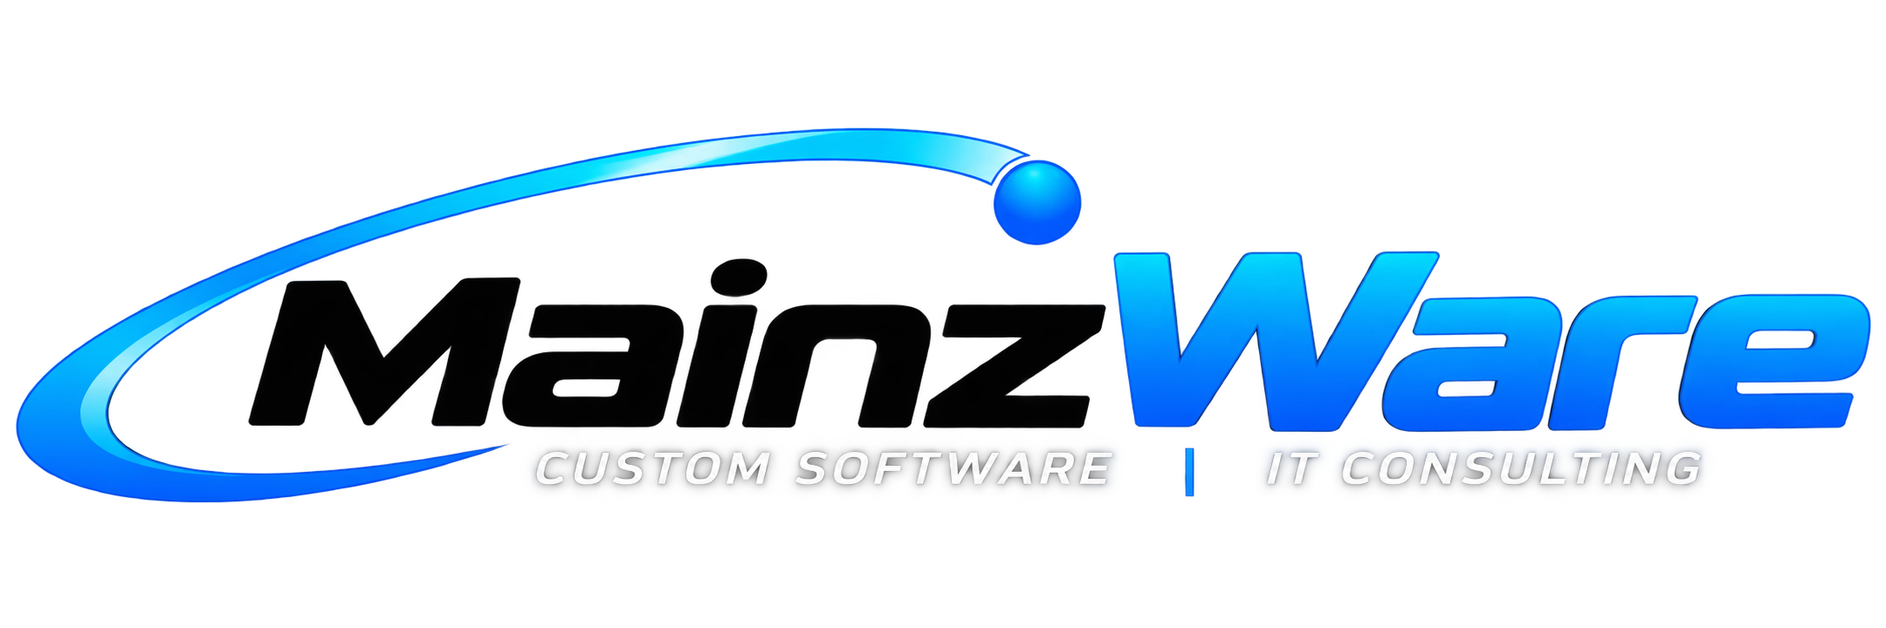
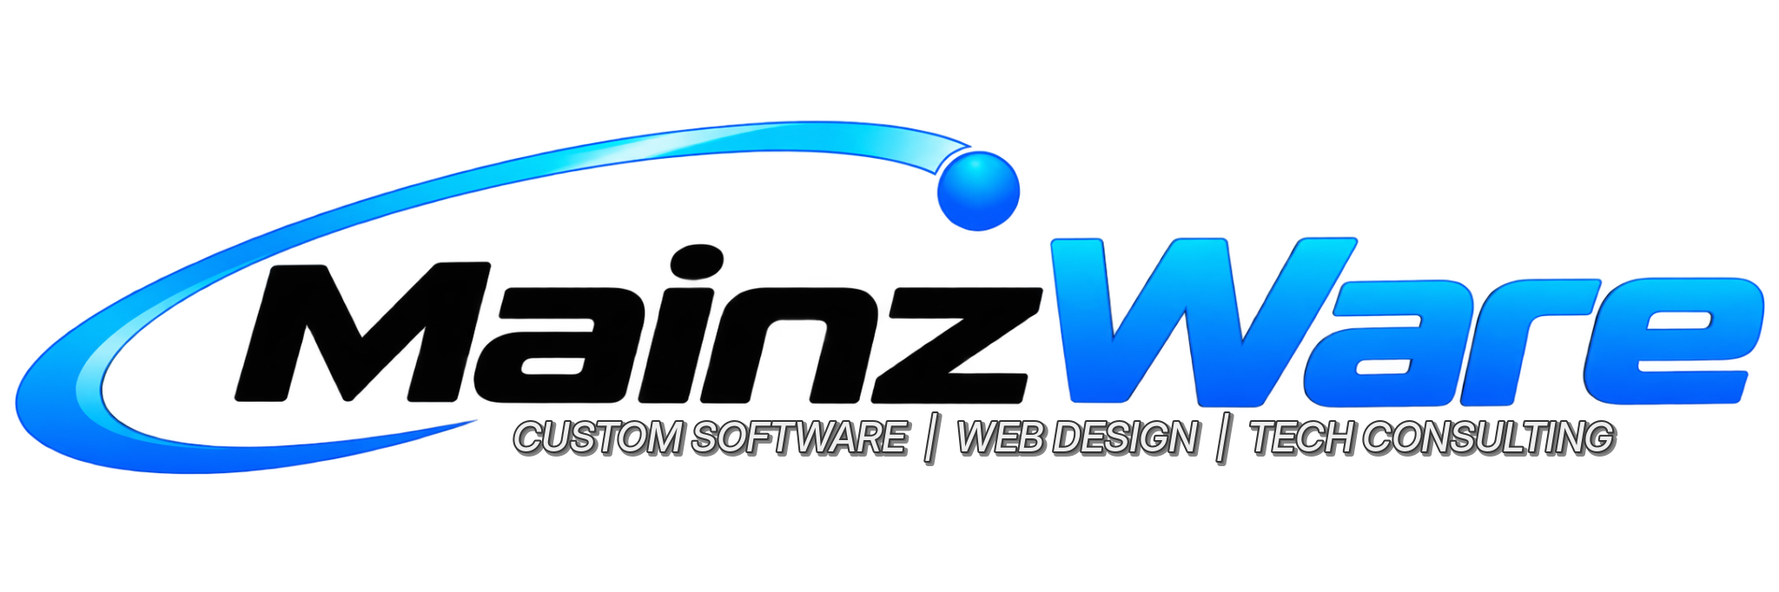
homepage edits

diff --git a/portal/frontend/src/pages/Home.css b/portal/frontend/src/pages/Home.css
@@ -1,17 +1,19 @@
-:root { --mw-navy: #07172d; --mw-blue: #087cf0; --mw-electric: #25a9ff; --mw-white: #f7fbff; --mw-pale: #eaf4fc; --mw-line: rgba(7, 23, 45, .16); }
+:root { --mw-navy: #07172d; --mw-blue: #087cf0; --mw-blue-ink: #0a5cae; --mw-electric: #25a9ff; --mw-white: #f7fbff; --mw-pale: #eaf4fc; --mw-line: rgba(7, 23, 45, .16); }
 .mainzware-site { background: var(--mw-white); color: var(--mw-navy); font-family: 'Trebuchet MS', 'Segoe UI', sans-serif; min-height: 100vh; overflow: hidden; }
 .mw-header { align-items: center; background: rgba(247,251,255,.94); border-bottom: 1px solid var(--mw-line); display: flex; justify-content: space-between; padding: 18px 5vw; position: relative; z-index: 2; }
 .mw-brand { display: block; line-height: 0; text-decoration: none; }.mw-brand img { height: 54px; object-fit: contain; width: 170px; }
 .mw-nav { align-items: center; display: flex; gap: clamp(18px, 3vw, 44px); }.mw-nav a { color: var(--mw-navy); font-size: .75rem; font-weight: 800; letter-spacing: .1em; text-decoration: none; text-transform: uppercase; }.mw-nav a:hover { color: var(--mw-blue); }
 .mw-nav__portal { align-items: center; background: var(--mw-blue); color: #fff !important; display: flex; gap: 7px; padding: 13px 17px; transition: background .2s ease, transform .2s ease; }.mw-nav__portal:hover { background: var(--mw-navy); transform: translateY(-2px); }.mw-nav__portal svg, .mw-button svg { font-size: 1rem; transform: rotate(45deg); }
 .mw-hero { background: linear-gradient(116deg, #f7fbff 0%, #edf7ff 56%, #ccecff 100%); display: grid; grid-template-columns: minmax(0, 1.02fr) minmax(390px, .98fr); min-height: 660px; padding: 80px 7vw 100px; position: relative; }.mw-hero::after { background: var(--mw-blue); bottom: -1px; clip-path: polygon(100% 0, 100% 100%, 0 100%); content: ''; height: 110px; opacity: .08; position: absolute; right: 0; width: 42%; }
-.mw-kicker { align-items: center; color: var(--mw-blue); display: flex; font-size: .72rem; font-weight: 900; gap: 8px; letter-spacing: .16em; margin: 0 0 24px; text-transform: uppercase; }.mw-kicker svg { font-size: 1rem; }
-.mw-hero h1, .mw-intro h2, .mw-section-heading h2, .mw-cta h2 { font-family: 'Arial Black', 'Trebuchet MS', sans-serif; font-size: clamp(3.4rem, 7vw, 6.6rem); font-weight: 900; letter-spacing: -.075em; line-height: .9; margin: 0; max-width: 760px; text-transform: uppercase; }.mw-hero h1 em, h2 em { color: var(--mw-blue); font-style: normal; }.mw-hero__lede { color: var(--mw-navy); font-size: clamp(1.2rem, 2vw, 1.6rem); font-weight: 800; line-height: 1.15; margin: 36px 0 15px; max-width: 490px; }.mw-hero__body { color: rgba(7,23,45,.7); font-size: .98rem; line-height: 1.65; margin: 0 0 30px; max-width: 480px; }
+.mw-kicker { align-items: center; color: var(--mw-blue-ink); display: flex; font-size: .72rem; font-weight: 900; gap: 8px; letter-spacing: .16em; margin: 0 0 24px; text-transform: uppercase; }.mw-kicker svg { font-size: 1rem; }
+.mw-hero h1, .mw-beyond h2, .mw-section-heading h2, .mw-cta h2, .mw-approach > h2, .mw-commitment > h2 { font-family: 'Arial Black', 'Trebuchet MS', sans-serif; font-size: clamp(3.4rem, 7vw, 6.6rem); font-weight: 900; letter-spacing: -.075em; line-height: .9; margin: 0; max-width: 760px; text-transform: uppercase; }.mw-hero h1 em, h2 em { color: var(--mw-blue); font-style: normal; }.mw-hero h1 { font-size: clamp(2.1rem, 3.6vw, 3.6rem); line-height: 1.15; max-width: 900px; }.mw-hero__subhead { border-top: 2px solid var(--mw-blue); color: rgba(7,23,45,.62); font-size: clamp(1rem, 1.4vw, 1.15rem); font-style: italic; font-weight: 700; line-height: 1.4; margin: 22px 0 0; max-width: 560px; padding-top: 14px; }.mw-hero__lede { color: var(--mw-navy); font-size: clamp(1.2rem, 2vw, 1.6rem); font-weight: 800; line-height: 1.15; margin: 30px 0 15px; max-width: 490px; }
 .mw-button { align-items: center; background: var(--mw-blue); box-shadow: 0 10px 20px rgba(8,124,240,.2); color: #fff; display: inline-flex; font-size: .76rem; font-weight: 900; gap: 15px; letter-spacing: .08em; padding: 17px 21px; text-decoration: none; text-transform: uppercase; transition: background .2s ease, transform .2s ease; }.mw-button:hover { background: var(--mw-navy); color: #fff; transform: translateY(-3px); }
-.mw-hero__visual { align-self: center; aspect-ratio: 1; background: linear-gradient(145deg, var(--mw-navy), #0b4f9d); box-shadow: 20px 28px 0 rgba(8,124,240,.13); justify-self: end; max-width: 535px; overflow: hidden; position: relative; transform: rotate(3deg); width: 100%; }.mw-hero__visual::before { border: 1px solid rgba(37,169,255,.5); content: ''; inset: 9%; position: absolute; }.mw-hero__shine { background: linear-gradient(130deg, rgba(255,255,255,.3), transparent 32%); inset: 0; position: absolute; }.mw-hero__logo { filter: drop-shadow(0 12px 16px rgba(0,0,0,.35)); left: 8%; max-width: 84%; position: absolute; top: 31%; transform: rotate(-3deg); width: 84%; z-index: 2; }.mw-orbit { border: 1px solid rgba(37,169,255,.4); border-radius: 50%; height: 76%; left: 12%; position: absolute; top: 12%; transform: rotate(-32deg); width: 76%; }.mw-orbit--two { transform: rotate(32deg); }
-.mw-node { align-items: center; background: var(--mw-blue); border: 2px solid #8bd8ff; border-radius: 50%; color: #fff; display: flex; flex-direction: column; height: 66px; justify-content: center; position: absolute; width: 66px; z-index: 3; }.mw-node svg { font-size: 1.25rem; }.mw-node small { font-size: .47rem; font-weight: 900; letter-spacing: .05em; margin-top: 3px; text-transform: uppercase; }.mw-node--center { display: none; }.mw-node--top { left: calc(50% - 33px); top: 3%; }.mw-node--right { right: 3%; top: calc(50% - 33px); }.mw-node--bottom { bottom: 3%; left: calc(50% - 33px); }.mw-node--left { left: 3%; top: calc(50% - 33px); }
-.mw-intro, .mw-services { margin: auto; max-width: 1280px; padding: 110px 7vw; }.mw-intro { border-bottom: 1px solid var(--mw-line); }.mw-intro__grid, .mw-section-heading { display: grid; gap: 8vw; grid-template-columns: 1fr 1fr; }.mw-intro h2, .mw-section-heading h2, .mw-cta h2 { font-size: clamp(2.8rem, 5vw, 5.1rem); }.mw-intro__grid > div { align-self: end; max-width: 440px; }.mw-intro__grid p, .mw-section-heading > p, .mw-cta__action p { color: rgba(7,23,45,.7); font-size: 1.04rem; line-height: 1.65; }.mw-intro__grid > div p:first-child { color: var(--mw-navy); font-size: 1.45rem; font-weight: 800; line-height: 1.2; }
-.mw-services { background: var(--mw-pale); max-width: none; }.mw-section-heading { margin: auto; max-width: 1140px; }.mw-section-heading > p { align-self: end; max-width: 340px; }.mw-service-grid { display: grid; grid-template-columns: repeat(5, 1fr); margin: 72px auto 0; max-width: 1140px; }.mw-service { border-left: 1px solid var(--mw-line); min-height: 235px; padding: 0 22px; }.mw-service:last-child { border-right: 1px solid var(--mw-line); }.mw-service__top { align-items: center; color: var(--mw-blue); display: flex; justify-content: space-between; }.mw-service__top span { font-size: .8rem; font-weight: 900; }.mw-service__top svg { font-size: 1.7rem; }.mw-service h3 { font-size: 1.27rem; font-weight: 900; line-height: 1.05; margin: 44px 0 15px; text-transform: uppercase; }.mw-service p { color: rgba(7,23,45,.68); font-size: .82rem; line-height: 1.55; margin: 0; }
+.mw-hero__visual { align-self: center; background: radial-gradient(circle at 22% 12%, rgba(37,169,255,.35), transparent 42%), linear-gradient(145deg, var(--mw-navy), #0b4f9d); border-radius: 28px; box-shadow: 20px 28px 0 rgba(8,124,240,.13), 0 30px 60px rgba(7,23,45,.25); display: flex; flex-direction: column; align-items: center; justify-content: center; gap: 32px; justify-self: end; max-width: 535px; overflow: hidden; padding: 64px 44px; position: relative; transform: rotate(-2deg); width: 100%; }.mw-hero__visual::before { background-image: linear-gradient(rgba(139,216,255,.14) 1px, transparent 1px), linear-gradient(90deg, rgba(139,216,255,.14) 1px, transparent 1px); background-size: 28px 28px; border: 1px solid rgba(37,169,255,.5); border-radius: 20px; content: ''; inset: 16px; position: absolute; }.mw-hero__shine { background: linear-gradient(130deg, rgba(255,255,255,.25), transparent 40%); inset: 0; position: absolute; }.mw-hero__logo { filter: drop-shadow(0 12px 16px rgba(0,0,0,.35)); max-width: 340px; position: relative; width: 78%; z-index: 2; }.mw-hero__divider { background: linear-gradient(90deg, transparent, rgba(139,216,255,.7), transparent); height: 1px; position: relative; width: 72%; z-index: 2; }
+.mw-hero__pillars { display: flex; gap: 14px; list-style: none; margin: 0; padding: 0; position: relative; width: 100%; z-index: 2; }.mw-hero__pillars li { align-items: center; background: linear-gradient(160deg, rgba(247,251,255,.12), rgba(247,251,255,.03)); border: 1px solid rgba(139,216,255,.35); border-radius: 14px; box-shadow: inset 0 1px 0 rgba(255,255,255,.15); color: #fff; display: flex; flex: 1; flex-direction: column; gap: 12px; padding: 20px 10px; text-align: center; }.mw-hero__pillar-icon { align-items: center; background: linear-gradient(145deg, var(--mw-electric), var(--mw-blue)); border-radius: 50%; box-shadow: 0 6px 14px rgba(8,124,240,.4); display: flex; height: 42px; justify-content: center; width: 42px; }.mw-hero__pillar-icon svg { color: #fff; font-size: 1.3rem; }.mw-hero__pillars span:not(.mw-hero__pillar-icon) { font-size: .72rem; font-weight: 900; letter-spacing: .08em; text-transform: uppercase; }
+.mw-beyond, .mw-services, .mw-approach, .mw-commitment { margin: auto; max-width: 1280px; padding: 110px 7vw; }.mw-beyond { border-bottom: 1px solid var(--mw-line); }.mw-commitment { border-top: 1px solid var(--mw-line); }.mw-beyond__grid, .mw-section-heading { display: grid; gap: 8vw; grid-template-columns: 1fr 1fr; }.mw-beyond h2, .mw-section-heading h2, .mw-cta h2, .mw-approach > h2, .mw-commitment > h2 { font-size: clamp(2.8rem, 5vw, 5.1rem); }.mw-beyond__grid > div:last-child { align-self: end; max-width: 440px; }.mw-beyond__grid p, .mw-section-heading > p, .mw-cta__action p { color: rgba(7,23,45,.7); font-size: 1.04rem; line-height: 1.65; }.mw-beyond__grid > div p:first-child { color: var(--mw-navy); font-size: 1.45rem; font-weight: 800; line-height: 1.2; }.mw-approach > .mw-kicker, .mw-commitment > .mw-kicker { margin-bottom: 12px; }.mw-approach > h2, .mw-commitment > h2 { max-width: none; }.mw-approach__lede { color: rgba(7,23,45,.7); font-size: 1.04rem; line-height: 1.65; margin: 22px 0 0; max-width: 640px; }
+.mw-beyond__heading { align-self: start; max-width: 440px; position: relative; }.mw-beyond__heading h2 { position: relative; z-index: 1; }.mw-beyond__watermark { color: var(--mw-blue); font-size: 22rem; left: -1.2rem; opacity: .07; pointer-events: none; position: absolute; top: -4rem; z-index: 0; }
+.mw-services { background: var(--mw-pale); max-width: none; }.mw-section-heading { margin: auto; max-width: 1140px; }.mw-section-heading > p { align-self: end; max-width: 340px; }.mw-pillar-grid { display: grid; grid-template-columns: repeat(3, 1fr); gap: 0 22px; margin: 72px auto 0; max-width: 1140px; }.mw-pillar { border-left: 1px solid var(--mw-line); min-height: 235px; padding: 0 22px; }.mw-pillar:last-child { border-right: 1px solid var(--mw-line); }.mw-pillar__top { align-items: center; color: var(--mw-blue-ink); display: flex; justify-content: space-between; }.mw-pillar__top span { font-size: .8rem; font-weight: 900; }.mw-pillar__top svg { font-size: 1.7rem; }.mw-pillar h3 { font-size: 1.27rem; font-weight: 900; line-height: 1.05; margin: 44px 0 20px; text-transform: uppercase; }.mw-pillar ul { list-style: none; margin: 0; padding: 0; }.mw-pillar li { border-top: 1px solid var(--mw-line); color: rgba(7,23,45,.68); font-size: .82rem; font-weight: 700; line-height: 1.4; padding: 12px 0; }.mw-pillar li:first-child { border-top: 0; padding-top: 0; }
+.mw-tags { display: flex; flex-wrap: wrap; gap: 12px; list-style: none; margin: 30px 0 0; padding: 0; }.mw-tags li { align-items: center; background: #fff; border: 1px solid var(--mw-line); border-radius: 999px; box-shadow: 0 6px 14px rgba(7,23,45,.06); color: var(--mw-navy); display: flex; font-size: .78rem; font-weight: 800; gap: 10px; letter-spacing: .04em; padding: 8px 16px 8px 8px; text-transform: uppercase; }.mw-tags__icon { align-items: center; background: linear-gradient(145deg, var(--mw-electric), var(--mw-blue)); border-radius: 50%; color: #fff; display: flex; height: 30px; justify-content: center; width: 30px; }.mw-tags__icon svg { font-size: 1rem; }.mw-approach__steps { display: grid; gap: 0 22px; grid-template-columns: repeat(4, 1fr); margin: 64px auto 0; max-width: 1140px; }.mw-approach__step { border-left: 1px solid var(--mw-line); padding: 0 22px; position: relative; }.mw-approach__step:last-child { border-right: 1px solid var(--mw-line); }.mw-approach__step span:first-child { color: var(--mw-blue-ink); font-size: .8rem; font-weight: 900; }.mw-approach__step h3 { font-size: 1.27rem; font-weight: 900; margin: 30px 0 0; text-transform: uppercase; }.mw-approach__arrow { color: var(--mw-blue); font-size: 1.5rem; position: absolute; right: -1px; top: 0; }
 .mw-cta { align-items: end; background: var(--mw-navy); color: var(--mw-white); display: grid; gap: 8vw; grid-template-columns: 1fr 1fr; padding: 110px 7vw; }.mw-cta .mw-kicker { color: var(--mw-electric); }.mw-cta h2 { color: var(--mw-white); }.mw-cta__action { max-width: 350px; }.mw-cta__action p { color: rgba(247,251,255,.75); }.mw-button--light { background: var(--mw-electric); color: var(--mw-navy); }.mw-button--light:hover { background: #fff; color: var(--mw-navy); }.mw-footer { background: var(--mw-navy); border-top: 1px solid rgba(247,251,255,.15); color: rgba(247,251,255,.6); display: flex; justify-content: space-between; padding: 25px 7vw; font-size: .7rem; font-weight: 800; letter-spacing: .08em; text-transform: uppercase; }
-@media (max-width: 800px) { .mw-nav a:not(.mw-nav__portal) { display: none; }.mw-hero { display: block; min-height: auto; padding-top: 65px; }.mw-hero__visual { margin: 70px auto 0; max-width: 440px; }.mw-intro__grid, .mw-section-heading, .mw-cta { grid-template-columns: 1fr; gap: 35px; }.mw-service-grid { grid-template-columns: repeat(2, 1fr); row-gap: 45px; }.mw-service:nth-child(3) { border-right: 1px solid var(--mw-line); } }
-@media (max-width: 480px) { .mw-header { padding: 15px 5vw; }.mw-brand img { height: 43px; width: 138px; }.mw-nav__portal { padding: 11px 13px; }.mw-hero { padding-top: 50px; }.mw-hero h1 { font-size: clamp(2.8rem, 15vw, 4.4rem); }.mw-hero__visual { margin-top: 55px; }.mw-node { height: 52px; width: 52px; }.mw-node--top, .mw-node--bottom { left: calc(50% - 26px); }.mw-node--right, .mw-node--left { top: calc(50% - 26px); }.mw-service-grid { grid-template-columns: 1fr; }.mw-service, .mw-service:nth-child(3) { border-right: 0; min-height: auto; padding: 0 0 30px; }.mw-service:last-child { border-right: 0; }.mw-footer { flex-direction: column; gap: 10px; } }
+@media (max-width: 800px) { .mw-nav a:not(.mw-nav__portal) { display: none; }.mw-hero { display: block; min-height: auto; padding-top: 65px; }.mw-hero__visual { margin: 70px auto 0; max-width: 440px; }.mw-beyond__grid, .mw-section-heading, .mw-cta { grid-template-columns: 1fr; gap: 35px; }.mw-pillar-grid { grid-template-columns: 1fr; row-gap: 45px; }.mw-pillar { border-right: 1px solid var(--mw-line) !important; }.mw-approach__steps { grid-template-columns: 1fr; row-gap: 40px; }.mw-approach__step { border-right: 1px solid var(--mw-line) !important; }.mw-approach__arrow { display: none; } }
+@media (max-width: 480px) { .mw-header { padding: 15px 5vw; }.mw-brand img { height: 43px; width: 138px; }.mw-nav__portal { padding: 11px 13px; }.mw-hero { padding-top: 50px; }.mw-hero h1 { font-size: clamp(1.9rem, 9vw, 2.6rem); }.mw-hero__visual { gap: 28px; margin-top: 55px; padding: 44px 26px; }.mw-hero__pillars { flex-direction: column; }.mw-pillar, .mw-pillar:last-child { border-right: 0 !important; min-height: auto; padding: 0 0 30px; }.mw-approach__step, .mw-approach__step:last-child { border-right: 0 !important; padding: 0 0 24px; }.mw-footer { flex-direction: column; gap: 10px; } }

diff --git a/portal/frontend/src/pages/Home.jsx b/portal/frontend/src/pages/Home.jsx
@@ -1,44 +1,62 @@
+import ApartmentRoundedIcon from '@mui/icons-material/ApartmentRounded';
 import ArrowUpwardRoundedIcon from '@mui/icons-material/ArrowUpwardRounded';
 import AutoAwesomeRoundedIcon from '@mui/icons-material/AutoAwesomeRounded';
+import CableRoundedIcon from '@mui/icons-material/CableRounded';
+import CheckCircleRoundedIcon from '@mui/icons-material/CheckCircleRounded';
 import HubRoundedIcon from '@mui/icons-material/HubRounded';
-import LanRoundedIcon from '@mui/icons-material/LanRounded';
-import QueryStatsRoundedIcon from '@mui/icons-material/QueryStatsRounded';
+import LanguageRoundedIcon from '@mui/icons-material/LanguageRounded';
+import RouterRoundedIcon from '@mui/icons-material/RouterRounded';
 import SettingsSuggestRoundedIcon from '@mui/icons-material/SettingsSuggestRounded';
 import TerminalRoundedIcon from '@mui/icons-material/TerminalRounded';
-import logo from '../../../../brand/logo square.png';
+import VideocamRoundedIcon from '@mui/icons-material/VideocamRounded';
+// Logo lockups: black wordmark for light surfaces, white wordmark for dark surfaces.
+import logoOnLight from '../../../../brand/M Logo Black.png';
+import logoOnDark from '../../../../brand/M logo white.png';
 import './Home.css';
 
-const services = [
+// Three co-equal disciplines, each backed by a short list of concrete capabilities.
+const pillars = [
   {
     icon: TerminalRoundedIcon,
     number: '01',
-    title: 'Custom software',
-    description: 'Purpose-built software and web applications designed around your processes, data, and goals.',
+    title: 'Software',
+    items: ['Custom Software Development', 'Business & Personal Applications', 'Databases & Integrations', 'Reporting & Data Analytics'],
   },
   {
-    icon: LanRoundedIcon,
+    icon: LanguageRoundedIcon,
     number: '02',
-    title: 'Network & infrastructure',
-    description: 'Network design, installation, configuration, troubleshooting, and infrastructure that holds up.',
-  },
-  {
-    icon: QueryStatsRoundedIcon,
-    number: '03',
-    title: 'Computer & IT consulting',
-    description: 'Practical guidance for choosing, implementing, maintaining, and improving the systems you depend on.',
+    title: 'Web',
+    items: ['Website Design', 'Web Development', 'Responsive Experiences', 'Modern Web Applications'],
   },
   {
     icon: SettingsSuggestRoundedIcon,
-    number: '04',
-    title: 'Business automation',
-    description: 'Reduce repetitive work by connecting systems, automating processes, and putting your data to work.',
+    number: '03',
+    title: 'Consulting',
+    items: ['Technology Strategy', 'Architecture & Planning', 'System Design', 'Technology Problem Solving'],
   },
-  {
-    icon: HubRoundedIcon,
-    number: '05',
-    title: 'System integration',
-    description: 'Connect the software, databases, devices, and services your business already uses.',
-  },
+];
+
+// Secondary, on-request hardware/infrastructure capabilities (not a headline pillar).
+const beyondTags = [
+  { icon: VideocamRoundedIcon, label: 'Cameras' },
+  { icon: RouterRoundedIcon, label: 'Networks' },
+  { icon: ApartmentRoundedIcon, label: 'Infrastructure' },
+  { icon: CableRoundedIcon, label: 'Connectivity' },
+];
+
+const approachSteps = [
+  { number: '01', title: 'Assess' },
+  { number: '02', title: 'Design' },
+  { number: '03', title: 'Implement' },
+  { number: '04', title: 'Support' },
+];
+
+const commitmentItems = [
+  'Reliable & Secure',
+  'Scalable & Flexible',
+  'Proactive Support',
+  'Business-Focused Solutions',
+  'A Partner You Can Trust',
 ];
 
 export default function Home() {
@@ -46,11 +64,13 @@ export default function Home() {
     <div className="mainzware-site">
       <header className="mw-header">
         <a className="mw-brand" href="#top" aria-label="MainzWare home">
-          <img src={logo} alt="MainzWare" />
+          <img src={logoOnLight} alt="MainzWare" />
         </a>
         <nav className="mw-nav" aria-label="Main navigation">
           <a href="#services">Services</a>
-          <a href="#approach">Our approach</a>
+          <a href="#beyond">Beyond the screen</a>
+          <a href="#approach">Approach</a>
+          <a href="#commitment">Commitment</a>
           <a className="mw-nav__portal" href="/login">Log in <ArrowUpwardRoundedIcon aria-hidden="true" /></a>
         </nav>
       </header>
@@ -58,59 +78,93 @@ export default function Home() {
       <main id="top">
         <section className="mw-hero" aria-labelledby="hero-title">
           <div className="mw-hero__copy">
-            <p className="mw-kicker"><AutoAwesomeRoundedIcon aria-hidden="true" /> Technology, made useful</p>
-            <h1 id="hero-title">Technology built <em>around</em> your business.</h1>
-            <p className="mw-hero__lede">Custom software. Reliable networks. Practical technology solutions.</p>
-            <p className="mw-hero__body">We build technology that works the way your business works, from custom applications and web tools to the infrastructure that keeps everything moving.</p>
+            <p className="mw-kicker"><AutoAwesomeRoundedIcon aria-hidden="true" /> Custom Software · Web Design · Tech Consulting</p>
+            <h1 id="hero-title">We design and build software, websites, and technology solutions.</h1>
+            <p className="mw-hero__subhead">From digital products to the hardware that supports them.</p>
+            <p className="mw-hero__lede">From a simple website to a completely custom application, we turn ideas and challenges into technology built with precision, purpose, and excellence.</p>
             <a className="mw-button" href="#contact">Start a conversation <ArrowUpwardRoundedIcon aria-hidden="true" /></a>
           </div>
-          <div className="mw-hero__visual" aria-label="MainzWare technology solutions" role="img">
+          <div className="mw-hero__visual" aria-label="MainzWare: software, web, and consulting" role="img">
             <div className="mw-hero__shine" />
-            <img src={logo} alt="" className="mw-hero__logo" />
-            <div className="mw-orbit mw-orbit--one" />
-            <div className="mw-orbit mw-orbit--two" />
-            <div className="mw-node mw-node--center"><span>MW</span><small>your business</small></div>
-            <div className="mw-node mw-node--top"><TerminalRoundedIcon aria-hidden="true" /><small>software</small></div>
-            <div className="mw-node mw-node--right"><LanRoundedIcon aria-hidden="true" /><small>network</small></div>
-            <div className="mw-node mw-node--bottom"><QueryStatsRoundedIcon aria-hidden="true" /><small>insight</small></div>
-            <div className="mw-node mw-node--left"><HubRoundedIcon aria-hidden="true" /><small>systems</small></div>
-          </div>
-        </section>
-
-        <section className="mw-intro" id="approach" aria-labelledby="intro-title">
-          <p className="mw-kicker">The MainzWare difference</p>
-          <div className="mw-intro__grid">
-            <h2 id="intro-title">Custom technology.<br /><em>Real solutions.</em></h2>
-            <div>
-              <p>Your business is unique. Your technology should be too.</p>
-              <p>We learn how you operate, find where technology can make a difference, and build around those needs. No one-size-fits-all products. No unnecessary complexity.</p>
-            </div>
+            <img src={logoOnDark} alt="" className="mw-hero__logo" />
+            <span className="mw-hero__divider" aria-hidden="true" />
+            <ul className="mw-hero__pillars" aria-hidden="true">
+              {pillars.map(({ icon: Icon, title }) => (
+                <li key={title}><span className="mw-hero__pillar-icon"><Icon aria-hidden="true" /></span><span>{title}</span></li>
+              ))}
+            </ul>
           </div>
         </section>
 
         <section className="mw-services" id="services" aria-labelledby="services-title">
           <div className="mw-section-heading">
-            <div><p className="mw-kicker">What we do</p><h2 id="services-title">The right tool<br /><em>for the job.</em></h2></div>
-            <p>From a single workflow to your whole technology environment, we bring clarity to complicated problems.</p>
+            <div><p className="mw-kicker">What we do</p><h2 id="services-title">One team.<br /><em>Three disciplines.</em></h2></div>
+            <p>Everything we build starts with one of these three disciplines, working together as a single technology partner.</p>
           </div>
-          <div className="mw-service-grid">
-            {services.map(({ icon: Icon, number, title, description }) => (
-              <article className="mw-service" key={title}>
-                <div className="mw-service__top"><span>{number}</span><Icon aria-hidden="true" /></div>
+          <div className="mw-pillar-grid">
+            {pillars.map(({ icon: Icon, number, title, items }) => (
+              <article className="mw-pillar" key={title}>
+                <div className="mw-pillar__top"><span>{number}</span><Icon aria-hidden="true" /></div>
                 <h3>{title}</h3>
-                <p>{description}</p>
+                <ul>
+                  {items.map((item) => <li key={item}>{item}</li>)}
+                </ul>
               </article>
             ))}
           </div>
         </section>
 
+        <section className="mw-beyond" id="beyond" aria-labelledby="beyond-title">
+          <div className="mw-beyond__grid">
+            <div className="mw-beyond__heading">
+              <HubRoundedIcon className="mw-beyond__watermark" aria-hidden="true" />
+              <h2 id="beyond-title">Beyond<br /><em>the screen.</em></h2>
+            </div>
+            <div>
+              <p>And when technology extends beyond the screen, we can help there too.</p>
+              <p>Need a camera system? Setting up a network? Connecting buildings across a property or over distance? We design and implement the hardware, connectivity, and infrastructure that bring the entire technology solution together.</p>
+            </div>
+          </div>
+          <ul className="mw-tags">
+            {beyondTags.map(({ icon: Icon, label }) => (
+              <li key={label}><span className="mw-tags__icon"><Icon aria-hidden="true" /></span><span>{label}</span></li>
+            ))}
+          </ul>
+        </section>
+
+        <section className="mw-approach" id="approach" aria-labelledby="approach-title">
+          <p className="mw-kicker">How we work</p>
+          <h2 id="approach-title">Our <em>approach.</em></h2>
+          <p className="mw-approach__lede">We deliver reliable, secure, and scalable technology solutions tailored to your needs. From infrastructure to custom software, we help organizations streamline operations, improve efficiency, and achieve their goals with technology that works together.</p>
+          <div className="mw-approach__steps">
+            {approachSteps.map(({ number, title }, index) => (
+              <div className="mw-approach__step" key={title}>
+                <span>{number}</span>
+                <h3>{title}</h3>
+                {index < approachSteps.length - 1 && <span className="mw-approach__arrow" aria-hidden="true">→</span>}
+              </div>
+            ))}
+          </div>
+        </section>
+
+        <section className="mw-commitment" id="commitment" aria-labelledby="commitment-title">
+          <p className="mw-kicker">Why partner with us</p>
+          <h2 id="commitment-title">Our <em>commitment.</em></h2>
+          <p className="mw-approach__lede">We build long-term partnerships through trust, clear communication, and proven results. Our goal is to provide practical, secure, and future-ready solutions that help you maximize your technology investment and unlock new possibilities.</p>
+          <ul className="mw-tags">
+            {commitmentItems.map((label) => (
+              <li key={label}><span className="mw-tags__icon"><CheckCircleRoundedIcon aria-hidden="true" /></span><span>{label}</span></li>
+            ))}
+          </ul>
+        </section>
+
         <section className="mw-cta" id="contact" aria-labelledby="cta-title">
-          <div><p className="mw-kicker">No standard package required</p><h2 id="cta-title">Let’s build something<br /><em>that works.</em></h2></div>
-          <div className="mw-cta__action"><p>Tell us what you’re trying to accomplish. We’ll help you find a practical technology solution.</p><a className="mw-button mw-button--light" href="mailto:hello@mainzware.com">Get started <ArrowUpwardRoundedIcon aria-hidden="true" /></a></div>
+          <div><p className="mw-kicker">Let’s talk</p><h2 id="cta-title">Let’s build something<br /><em>exceptional.</em></h2></div>
+          <div className="mw-cta__action"><p>Have an idea, a problem, or a technology project? Let’s talk about it.</p><a className="mw-button mw-button--light" href="mailto:hello@mainzware.com">Start a conversation <ArrowUpwardRoundedIcon aria-hidden="true" /></a></div>
         </section>
       </main>
 
-      <footer className="mw-footer"><span>© {new Date().getFullYear()} MainzWare</span><span>Technology with purpose.</span></footer>
+      <footer className="mw-footer"><span>© {new Date().getFullYear()} MainzWare</span><span>Software with purpose.</span></footer>
     </div>
   );
 }

diff --git a/portal/frontend/src/components/NavBar.jsx b/portal/frontend/src/components/NavBar.jsx
@@ -81,7 +81,7 @@ export default function NavBar() {
           ))}
         </Tabs>
         <Button component={NavLink} to="/" size="small" sx={{ ml: 1, textTransform: 'none' }}>
-          MainzWare
+          Homepage
         </Button>
       </Box>
 
@@ -129,7 +129,7 @@ export default function NavBar() {
               </ListItemButton>
             ))}
             <ListItemButton component={NavLink} to="/" onClick={() => setMobileNavOpen(false)} sx={{ borderRadius: 2, minHeight: 44 }}>
-              <ListItemText primary="MainzWare" />
+              <ListItemText primary="Homepage" />
             </ListItemButton>
           </List>
         </Box>

diff --git a/portal/frontend/src/pages/Budget.jsx b/portal/frontend/src/pages/Budget.jsx
@@ -280,6 +280,9 @@ export default function Budget() {
       loadReceipts();
     } catch (error) {
       setUploadMessage({ severity: 'error', text: error.response?.data?.error || 'Could not process receipt.' });
+      // The server may have already flipped the receipt to 'failed'; reload so the
+      // list doesn't keep showing a stale 'pending' status after the error above.
+      loadReceipts();
     } finally {
       setReceiptActionBusy(false);
     }

diff --git a/portal/frontend/index.html b/portal/frontend/index.html
@@ -3,7 +3,7 @@
   <head>
     <meta charset="UTF-8" />
     <meta name="viewport" content="width=device-width, initial-scale=1.0" />
-    <title>MainzWare | Technology built around your business</title>
+    <title>MainzWare | Custom Software, Web Design & IT Consulting</title>
   </head>
   <body>
     <div id="root"></div>

diff --git a/brand/BRAND_BRIEF.md b/brand/BRAND_BRIEF.md
@@ -4,10 +4,20 @@ Background carried over from earlier design conversations, kept here instead of 
 Marketing agent instructions so it's only loaded when actually needed.
 
 - The company name is MainzWare.
-- The original homepage direction was technology built around a business, but the brand should
-  now emphasize excellence and cohesion rather than merely making technology work.
-- The preferred visual progression is `HARDWARE -> SOFTWARE -> MAINZWARE`.
-- A supporting phrase under consideration is `Cohesive Technology Excellence`.
+- Finalized tagline (matches the current logo assets, `brand/M Logo Black.png` and
+  `brand/M logo white.png`): `CUSTOM SOFTWARE • IT CONSULTING`. This supersedes the earlier
+  `Cohesive Technology Excellence` phrase; that phrase is retired from homepage/marketing copy.
+- The homepage messaging is finalized as software-first: hero -> three co-equal pillars
+  (Software / Web / Consulting) -> "Beyond the Screen" (hardware, networking, cameras,
+  connectivity — a secondary, on-request extension, not a headline pillar) -> "Our Approach"
+  (Understand -> Design -> Build -> Refine) -> closing CTA.
+- The old `HARDWARE -> SOFTWARE -> MAINZWARE` progression is retired as the homepage/messaging
+  hierarchy — hardware/infrastructure is now the secondary "Beyond the Screen" story, not the
+  entry point or headline framing.
+- The Y-shaped Hardware+Software tiles converging into a MainzWare CPU/tile remains valid as a
+  *visual composition system* for merch and system-diagram graphics (shirts, posters, social),
+  where a denser technical-systems diagram is appropriate. It is not the homepage content
+  hierarchy described above.
 - The desired back-of-shirt composition is a portrait technical graphic with Hardware and
   Software tiles, readable bullet points, a Y-shaped circuit path, and a larger MainzWare
   CPU/tile at the convergence point.

diff --git a/portal/README.md b/portal/README.md
@@ -42,6 +42,16 @@ portal/
 
 ## Local Setup
 
+The fastest path: run `~/MainzWare/start-mainzworld.sh` (or `npm run start:stack` from
+the repo root or `portal/frontend`) from any directory — it starts the brew-managed
+Postgres/PHP-FPM/Apache daemons if needed and launches the Vite dev server in the
+foreground. Use `~/MainzWare/check-mainzworld.sh` / `--clean` (or `npm run check:stack` /
+`clean:stack`) to check for or kill stray/duplicate Vite processes on `:5173`+. See the
+comments at the top of `../check-mainzworld.sh` and `../start-mainzworld.sh` for every
+supported invocation form.
+
+Manual setup, if you'd rather not use the scripts:
+
 1. Frontend: `cd frontend && npm install && npm run dev` (serves on `http://localhost:5173`).
 2. API: point an Apache vhost's `DocumentRoot` at `portal/api/public` (e.g. `http://localhost:8080`),
    and run `composer install` inside `api/` once dependencies are added.

diff --git a/portal/DEPLOYMENT.md b/portal/DEPLOYMENT.md
@@ -22,6 +22,12 @@ This app is expected to be prepared for public release. A web-hosting push must 
 - PHP 8.1+ with PDO PostgreSQL enabled.
 - PostgreSQL reachable by the PHP process.
 - Nginx configured for both API forwarding and frontend route fallback.
+- Nginx `client_max_body_size` set to at least 12M (default is 1M) and PHP's
+  `upload_max_filesize`/`post_max_size` set to at least 12M/15M — both must clear
+  `BudgetController::MAX_RECEIPT_BYTES` (10MB) or receipt photo uploads fail before
+  reaching the app, with Nginx returning a plain-HTML 413 instead of a JSON error.
+- `tesseract-ocr` installed on the host (`apt install tesseract-ocr` / `brew install
+  tesseract`) — required by `ReceiptOcr` for the receipt "process" step.
 - API environment variables configured with real values from `api/.env.example`.
 - Database migrations applied in order.
 - Frontend built with `npm ci && npm run build`.
